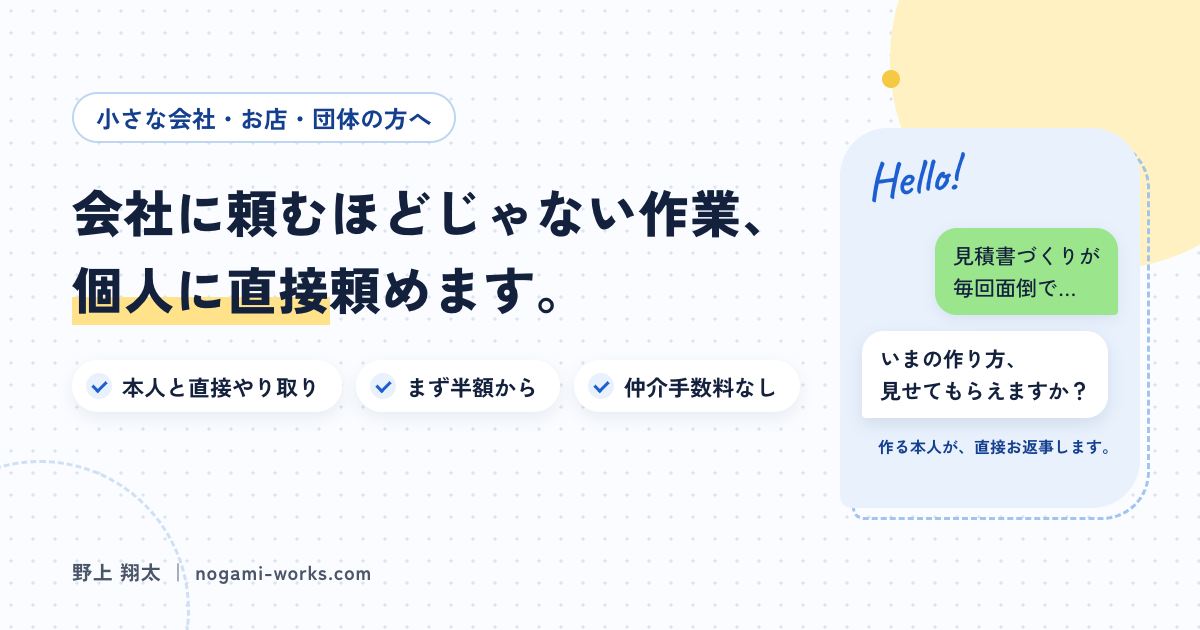
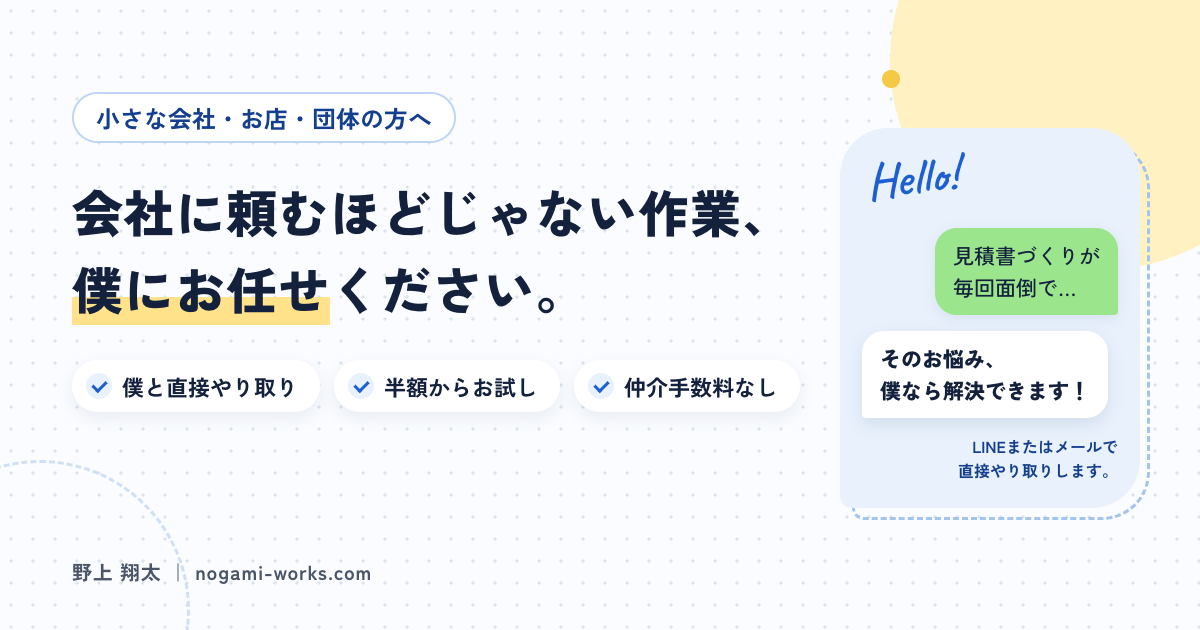
LPの文言を一人称「僕」にそろえ、お悩みをイラスト付きのつぶやきにする
- キャッチを「僕にお任せください」に。本人・作る本人の表現を「僕」に統一
- 半額が値引きに読めないよう「制作費の半額」と書く。見積書の事例は約5分→約30秒
- お悩みの4項目を、悩んでいる人のイラストとつぶやきの吹き出しにする
- 最初の画面の返信を「そのお悩み、僕なら解決できます！」に。OGP画像も合わせる
- 写真のひとことの文言、土日祝日の表記、黄色い光の速さを調整
- Safari で読点のあとに折り返さず吹き出しがはみ出す箇所を直す

diff --git a/index.html b/index.html
@@ -3,17 +3,17 @@
 <head>
 <meta charset="utf-8">
 <meta name="viewport" content="width=device-width, initial-scale=1">
-<title>会社に頼むほどじゃない作業、個人に直接頼めます｜野上 翔太</title>
-<meta name="description" content="後回しになっている事務作業の自動化やホームページづくりを、ひとりで引き受けます。作る本人とLINEで直接やり取り。費用はまず半額、納得できたら残りの半額。仲介手数料なし。">
+<title>会社に頼むほどじゃない作業、僕にお任せください｜野上 翔太</title>
+<meta name="description" content="後回しになっている事務作業の自動化やホームページづくりを、ひとりで引き受けます。僕とLINEで直接やり取り。お支払いはまず制作費の半額、納得できたら残りの半額。仲介手数料なし。">
 <link rel="canonical" href="https://nogami-works.com/">
 <meta property="og:type" content="website">
 <meta property="og:url" content="https://nogami-works.com/">
-<meta property="og:title" content="会社に頼むほどじゃない作業、個人に直接頼めます">
-<meta property="og:description" content="事務作業の自動化やホームページづくりを、ひとりで引き受けます。作る本人とLINEで直接。まず半額、納得できたら残りの半額。">
+<meta property="og:title" content="会社に頼むほどじゃない作業、僕にお任せください">
+<meta property="og:description" content="事務作業の自動化やホームページづくりを、ひとりで引き受けます。僕とLINEで直接やり取り。お支払いはまず制作費の半額、納得できたら残りの半額。">
 <meta property="og:image" content="https://nogami-works.com/assets/brand/ogp-home.png">
 <meta property="og:image:width" content="1200">
 <meta property="og:image:height" content="630">
-<meta property="og:image:alt" content="会社に頼むほどじゃない作業、個人に直接頼めます。野上 翔太">
+<meta property="og:image:alt" content="会社に頼むほどじゃない作業、僕にお任せください。野上 翔太">
 <meta name="twitter:card" content="summary_large_image">
 <link rel="icon" type="image/svg+xml" href="./assets/brand/favicon.svg">
 <link rel="icon" type="image/png" sizes="32x32" href="./assets/brand/icons/icon-32.png">
@@ -45,7 +45,7 @@
       "name": "返事はどのくらいでもらえますか？",
       "acceptedAnswer": {
         "@type": "Answer",
-        "text": "平日は12時間以内を目安にお返事します。土日や休みの日は、お時間をいただくことがあります。"
+        "text": "平日は12時間以内を目安にお返事します。土日祝日は、お時間をいただくことがあります。"
       }
     },
     {
@@ -132,11 +132,11 @@ a:focus-visible, summary:focus-visible { outline: 3px solid var(--ac); outline-o
 .hand { font-family: 'Caveat', cursive; font-weight: 600; line-height: 1.1; }
 .mark { background: linear-gradient(transparent 62%, var(--yel2) 62%); }
 .pc { display: none; }
-.nw { white-space: nowrap; }
+.nw { display: inline-block; white-space: nowrap; }
 /* Safari は keep-all の文の最小幅を大きく見積もり、箱が画面からはみ出すことがある。
    1 列のグリッドと、横並びの中の文章の箱は、入れ物の幅より広がらないようにする */
 .worries, .svc, .cases, .fold-two, .faq-cols, .faq-cols .col, .fit, .strengths { grid-template-columns: minmax(0, 1fr); }
-.worries li > span:last-child, .stg-h h3, .pay > li > span, .prices li > span, .fold > summary > span:first-child, .qa > summary .q, .prof-who > div { min-width: 0; }
+.worry-say, .stg-h h3, .pay > li > span, .prices li > span, .fold > summary > span:first-child, .qa > summary .q, .prof-who > div { min-width: 0; }
 
 /* ---------- 全体の重なり ---------- */
 .page { position: relative; z-index: 0; overflow: hidden; }
@@ -148,8 +148,8 @@ a:focus-visible, summary:focus-visible { outline: 3px solid var(--ac); outline-o
 .in { max-width: 560px; margin: 0 auto; display: flex; flex-direction: column; gap: 24px; }
 .trail { position: absolute; left: 0; top: 0; z-index: 0; pointer-events: none; overflow: visible; }
 .trail .line { stroke: var(--trail); stroke-width: 2; stroke-dasharray: 6 7; fill: none; }
-.trail .run { stroke: var(--yel); stroke-linecap: round; stroke-dasharray: 0.1 1679.9; fill: none; animation: run 4s linear infinite; }
-@keyframes run { from { stroke-dashoffset: 1680; } to { stroke-dashoffset: 0; } }
+.trail .run { stroke: var(--yel); stroke-linecap: round; stroke-dasharray: 0.1 1199.9; fill: none; animation: run 4s linear infinite; }
+@keyframes run { from { stroke-dashoffset: 1200; } to { stroke-dashoffset: 0; } }
 
 /* ---------- 共通の部品 ---------- */
 .lab { display: flex; flex-direction: column; gap: 2px; }
@@ -210,9 +210,13 @@ details[open] > summary .pm::after { transform: rotate(0deg); }
 .chat { position: absolute; right: 16px; top: 60px; width: 216px; display: flex; flex-direction: column; gap: 10px; }
 .bubble { max-width: 100%; padding: 9px 14px; font-size: 14px; line-height: 1.6; transition: opacity .3s; }
 .bubble.me { align-self: flex-end; background: var(--bub); border-radius: 18px 18px 4px 18px; font-weight: 500; box-shadow: 0 4px 14px rgba(20, 40, 90, 0.08); }
+#fb2 { font-weight: 900; }
 .bubble.you { align-self: flex-start; background: #fff; border-radius: 18px 18px 18px 4px; font-weight: 700; box-shadow: 0 6px 16px rgba(20, 40, 90, 0.10); }
-.chat .cap { align-self: flex-end; font-size: 11px; font-weight: 700; color: var(--aci); transition: opacity .4s; }
+.chat .cap { align-self: flex-end; text-align: right; font-size: 11px; font-weight: 700; color: var(--aci); transition: opacity .4s; }
 .ghost { opacity: 0; }
+.you-row { align-self: flex-start; display: flex; align-items: flex-end; gap: 6px; max-width: 100%; transition: opacity .3s; }
+.you-row .bubble { min-width: 0; }
+.avatar { width: 30px; height: 30px; border-radius: 50%; object-fit: cover; flex-shrink: 0; border: 2px solid #fff; box-shadow: 0 2px 6px rgba(20, 40, 90, 0.15); }
 .face { position: absolute; left: 20px; bottom: 22px; display: flex; flex-direction: column; align-items: center; gap: 8px; }
 .photo { position: relative; width: 130px; height: 130px; }
 .photo::before { content: ''; position: absolute; left: 7px; top: 7px; width: 100%; height: 100%; border-radius: 50%; border: 3px solid var(--ac); }
@@ -235,10 +239,14 @@ details[open] > summary .pm::after { transform: rotate(0deg); }
 @keyframes twinkle { 0%, 100% { opacity: 1; } 50% { opacity: .45; } }
 
 /* ---------- 2. お悩み ---------- */
-.worries { display: grid; gap: 12px; }
-.worries li { background: #fff; box-shadow: var(--card); padding: 14px 16px; display: flex; align-items: center; gap: 14px; font-size: 15px; line-height: 1.6; font-weight: 700; border-radius: 20px 20px 20px 6px; margin-right: 18px; }
-.worries li:nth-child(even) { border-radius: 20px 20px 6px 20px; margin: 0 0 0 18px; }
-.worries .ib { width: 44px; height: 44px; border-radius: 22px; background: var(--tint); color: var(--ac); display: flex; align-items: center; justify-content: center; flex-shrink: 0; }
+.worries { display: grid; gap: 16px; grid-auto-rows: 1fr; }
+/* 悩んでいる人のつぶやき。吹き出しのとがった角を人のほうへ向ける（SP は左右交互） */
+.worries li { display: flex; align-items: flex-end; gap: 6px; }
+.worries li > * { align-self: flex-end; }
+.worries li:nth-child(even) { flex-direction: row-reverse; }
+.worry-face { height: 64px; width: 72px; object-fit: contain; object-position: bottom; flex-shrink: 0; }
+.worry-say { flex: 1; min-width: 0; align-self: stretch !important; display: flex; align-items: center; margin-bottom: 18px; background: #fff; box-shadow: var(--card); padding: 12px 16px; border-radius: 20px 20px 20px 6px; font-size: 15px; line-height: 1.6; font-weight: 700; }
+.worries li:nth-child(even) .worry-say { border-radius: 20px 20px 6px 20px; }
 .lead-c { font-size: 17px; line-height: 1.8; font-weight: 900; text-align: center; }
 .lead-c .w { display: inline-block; }
 
@@ -460,10 +468,10 @@ details[open] > summary .pm::after { transform: rotate(0deg); }
   .sticker { right: 20px; bottom: 30px; width: 150px; padding: 12px 10px; } .sticker span { font-size: 12px; } .sticker b { font-size: 28px; }
   .points { grid-column: 1 / -1; padding: 16px 8px; }
   .points li { flex-direction: row; justify-content: center; gap: 12px; font-size: 15px; } .points .ib { width: 40px; height: 40px; border-radius: 20px; } .points .ico { width: 22px; height: 22px; }
-  .worries { grid-template-columns: repeat(2, minmax(0, 1fr)); gap: 20px 28px; }
-  .worries li, .worries li:nth-child(even) { margin: 0; padding: 20px 22px; gap: 16px; font-size: 17px; border-radius: 22px 22px 22px 6px; }
-  .worries li:nth-child(even) { border-radius: 22px 22px 6px 22px; }
-  .worries .ib { width: 52px; height: 52px; border-radius: 26px; } .worries .ico { width: 26px; height: 26px; }
+  .worries { grid-template-columns: repeat(2, minmax(0, 1fr)); gap: 24px 36px; }
+  .worries li:nth-child(even) { flex-direction: row; }
+  .worry-face { height: 88px; width: 100px; }
+  .worry-say, .worries li:nth-child(even) .worry-say { margin-bottom: 24px; padding: 16px 22px; font-size: 17px; border-radius: 22px 22px 22px 6px; }
   .lead-c { font-size: 20px; }
   .svc { grid-template-columns: repeat(3, minmax(0, 1fr)); gap: 28px; }
   .svc .top { height: 128px; } .svc .no { left: 20px; top: 12px; font-size: 36px; } .svc .ib { width: 76px; height: 76px; border-radius: 38px; } .svc .ib .ico { width: 36px; height: 36px; }
@@ -545,7 +553,7 @@ details[open] > summary .pm::after { transform: rotate(0deg); }
   <div class="fv-main">
     <div class="fv-copy">
       <p class="eyebrow rv">小さな<wbr>会社・<wbr>お店・団体の<wbr>方へ</p>
-      <h1 class="rv" style="--d:.1s"><span class="nw">会社に頼むほどじゃない作業、</span><br><span class="mark">個人に<wbr>直接</span>頼めます。</h1>
+      <h1 class="rv" style="--d:.1s"><span class="nw">会社に頼むほどじゃない作業、</span><br><span class="mark">僕に<wbr>お任せ</span>ください。</h1>
       <p class="sub rv" style="--d:.2s">後回しに<wbr>なっている<wbr>事務作業の<wbr>自動化や<wbr>ホームページづくりを、<br class="pc">ひとりで<wbr>引き受けます。</p>
       <div class="fv-cta rv" style="--d:.35s">
         <div><a class="btn-line" href="https://lin.ee/SVRxHPY">LINEで<wbr>直接相談する<wbr>（無料）</a><a class="btn-mail" href="mailto:shota@nogami-works.com">メールで<wbr>相談する</a></div>
@@ -558,18 +566,18 @@ details[open] > summary .pm::after { transform: rotate(0deg); }
       <svg class="plane float" aria-hidden="true" viewBox="0 0 96 62" fill="none" stroke="#1D5FD0" stroke-width="2" stroke-linecap="round" stroke-linejoin="round"><path d="M4 56 Q 22 20 52 30" stroke-dasharray="1 7"/><path d="M58 28 92 10 76 44 70 32z" fill="#fff"/><path d="M70 32 92 10"/></svg>
       <div class="chat">
         <p class="bubble me" id="fb1"><span class="sr">お客さま：</span><span data-typed>見積書づくりが毎回面倒で…</span></p>
-        <p class="bubble you" id="fb2"><span class="sr">野上：</span><span data-typed>いまの作り方、見せてもらえますか？</span></p>
-        <p class="cap" id="fb3">作る<wbr>本人が、<wbr>直接お返事します。</p>
+        <p class="bubble you" id="fb2"><span class="sr">野上：</span><span data-typed>そのお悩み、&#8203;僕なら解決できます！</span></p>
+        <p class="cap" id="fb3">LINEまたは<wbr>メールで<br class="sp">直接やり取りします。</p>
       </div>
       <div class="face">
         <div class="photo"><div class="ph"><img src="./assets/home/face.webp" alt="野上 翔太のプロフィール写真" width="400" height="400" fetchpriority="high"></div></div>
-        <div class="name">私が<wbr>野上 翔太です</div>
+        <div class="name">僕が<wbr>野上 翔太です</div>
       </div>
-      <div class="sticker float2"><span>見積書づくり</span><span>約3分 →</span><b>約10秒</b></div>
+      <div class="sticker float2"><span>見積書づくり</span><span>約5分 →</span><b>約30秒</b></div>
     </div>
     <ul class="points card rv" style="--d:.45s">
-      <li><span class="ib"><svg class="ico"><use href="#i-chat"/></svg></span><span><span class="w">本人と<wbr>直接</span><span class="w">やり取り</span></span></li>
-      <li><span class="ib"><svg class="ico"><use href="#i-half"/></svg></span><span><span class="w">まず<wbr>半額</span><span class="w">から</span></span></li>
+      <li><span class="ib"><svg class="ico"><use href="#i-chat"/></svg></span><span><span class="w">僕と<wbr>直接</span><span class="w">やり取り</span></span></li>
+      <li><span class="ib"><svg class="ico"><use href="#i-half"/></svg></span><span><span class="w">半額から</span><span class="w">お試し</span></span></li>
       <li><span class="ib"><svg class="ico"><use href="#i-link"/></svg></span><span><span class="w">仲介手数料</span><span class="w">なし</span></span></li>
     </ul>
   </div>
@@ -580,12 +588,12 @@ details[open] > summary .pm::after { transform: rotate(0deg); }
   <div class="in">
     <div class="lab"><span class="hand" aria-hidden="true">Hmm...</span><h2>こんな<wbr>こと、<wbr>ありませんか？</h2></div>
     <ul class="worries" data-reveal="side">
-      <li><span class="ib"><svg class="ico"><use href="#i-doc"/></svg></span><span>見積書や<wbr>請求書を、<wbr>毎回いちから<wbr>手で<wbr>作っている</span></li>
-      <li><span class="ib"><svg class="ico"><use href="#i-cal"/></svg></span><span>ホームページの<span class="nw">「お知らせ」が、</span><span class="nw">何年も前のまま</span></span></li>
-      <li><span class="ib"><svg class="ico"><use href="#i-bld"/></svg></span><span>会社に<wbr>頼むと<wbr>高そうで、<br class="pc">見積もりを<wbr>取るのも<wbr>気が<wbr>引ける</span></li>
-      <li><span class="ib"><svg class="ico"><use href="#i-q"/></svg></span><span>頼んで<wbr>「思っていたのと<wbr>違う」と<wbr>なったら、<br class="pc"><span class="nw">お金がもったいない</span></span></li>
+      <li><img class="worry-face" src="./assets/home/worry-paperwork.webp" alt="" width="196" height="200" loading="lazy" decoding="async"><p class="worry-say">見積書も<wbr>請求書も、<wbr>毎回いちから<wbr>手作業…</p></li>
+      <li><img class="worry-face" src="./assets/home/worry-website.webp" alt="" width="226" height="200" loading="lazy" decoding="async"><p class="worry-say">ホームページの<wbr>「お知らせ」、<wbr>何年も<wbr>前の<wbr>ままだ…</p></li>
+      <li><img class="worry-face" src="./assets/home/worry-cost.webp" alt="" width="196" height="200" loading="lazy" decoding="async"><p class="worry-say">会社に<wbr>頼むと<wbr>高そう。<wbr>見積もりを<wbr>取るのも<wbr>気が<wbr>引ける…</p></li>
+      <li><img class="worry-face" src="./assets/home/worry-mismatch.webp" alt="" width="226" height="200" loading="lazy" decoding="async"><p class="worry-say">頼んで<wbr>みて<wbr>「思ってたのと<wbr>違う」だと、<wbr>お金が<wbr>もったいない…</p></li>
     </ul>
-    <p class="lead-c"><span class="w">ひとつでも<wbr>当てはまったら、</span><span class="w"><span class="mark">作る<wbr>本人が<wbr>直接</span>うかが<wbr>います。</span></p>
+    <p class="lead-c"><span class="w">ひとつでも<wbr>当てはまったら、</span><span class="w"><span class="mark">作り手である<wbr>僕が<wbr>直接</span>うかが<wbr>います。</span></p>
   </div>
 </section>
 
@@ -607,24 +615,24 @@ details[open] > summary .pm::after { transform: rotate(0deg); }
 <!-- ========== 4. 進め方（動く図） ========== -->
 <section class="sec tint" id="flow" data-trail>
   <div class="in">
-    <div class="lab"><span class="hand" aria-hidden="true">Flow</span><h2>頼むと、<wbr>こう<wbr>進みます</h2><small>※やり取りの<wbr>イメージです</small></div>
+    <div class="lab"><span class="hand" aria-hidden="true">Flow</span><h2>僕なら<wbr>こう<wbr>進めます</h2><small>※やり取りの<wbr>イメージです</small></div>
     <div class="flow-grid" id="flowfig">
       <ol class="stages">
         <li class="stg card">
           <div class="stg-h"><span class="n" aria-hidden="true">1</span><h3>LINEで<wbr>一言、<wbr>相談する</h3></div>
           <div class="talk">
             <p class="bubble me"><span class="sr">お客さま：</span><span data-typed data-at="0">見積書づくりが毎回面倒で…</span></p>
-            <p class="bubble you"><span class="sr">野上：</span><span data-typed data-at="1">いまの作り方、見せてもらえますか？</span></p>
+            <div class="you-row"><img class="avatar" src="./assets/home/face.webp" alt="" loading="lazy" width="400" height="400"><p class="bubble you"><span class="sr">野上：</span><span data-typed data-at="1">いまの作り方、&#8203;見せてもらえますか？</span></p></div>
           </div>
           <ol class="fcs"><li class="fc done" data-s="0">相談</li><li class="fc done" data-s="1">お返事</li><li class="fc done" data-s="2">お話を<wbr>聞く</li></ol>
         </li>
         <li class="stg card">
-          <div class="stg-h"><span class="n" aria-hidden="true">2</span><h3>見ながら、<wbr>一緒に<wbr>作る</h3><span class="badge on" data-from="3">まず<wbr>半額</span></div>
+          <div class="stg-h"><span class="n" aria-hidden="true">2</span><h3>見ながら、<span class="nw">一緒に作る</span></h3><span class="badge on" data-from="3">制作費の<wbr>半額</span></div>
           <ol class="fcs"><li class="fc done" data-s="3">ご提案</li><li class="fc done" data-s="4,6">お試し版</li><li class="fc done" data-s="5">手直し</li><li class="fc done" data-s="7">最終確認</li></ol>
           <p class="back" id="flowback"><svg class="ico" aria-hidden="true" viewBox="0 0 16 16"><use href="#i-back"/></svg>手直しの<wbr>あと、<wbr>もう<wbr>一度<wbr>お見せします</p>
         </li>
         <li class="stg card">
-          <div class="stg-h"><span class="n" aria-hidden="true">3</span><h3>使ってみて、<wbr>納得してから</h3><span class="badge on" data-from="10">残り半額</span></div>
+          <div class="stg-h"><span class="n" aria-hidden="true">3</span><h3>使ってみて、<wbr>納得してから</h3><span class="badge on" data-from="10">残りの<wbr>半額</span></div>
           <ol class="fcs"><li class="fc done" data-s="8">お渡し</li><li class="fc done" data-s="9">14日<wbr>使う</li><li class="fc done" data-s="10">残りの<wbr>半額</li></ol>
         </li>
       </ol>
@@ -632,13 +640,13 @@ details[open] > summary .pm::after { transform: rotate(0deg); }
         <div class="compare card">
           <div class="cmp-row"><div class="cmp-h">よく<wbr>ある<wbr>進み方の<wbr>例</div><div class="cmp-h">この<wbr>ページの<wbr>進み方</div></div>
           <div class="cmp-row"><div class="cmp-l">問い合わせフォームに<wbr>入力する</div><div class="cmp-r on" data-from="0">LINEで<wbr>一言送る</div></div>
-          <div class="cmp-row"><div class="cmp-l">担当者からの<wbr>返信を<wbr>待つ</div><div class="cmp-r on" data-from="1">作る<wbr>本人が<wbr>直接お返事</div></div>
-          <div class="cmp-row"><div class="cmp-l">打ち合わせの<wbr>日程を<wbr>調整する</div><div class="cmp-r on" data-from="2">画面を<wbr>見ながら、<wbr>その<wbr>場で<wbr>相談</div></div>
+          <div class="cmp-row"><div class="cmp-l">担当者からの<wbr>返信を<wbr>待つ</div><div class="cmp-r on" data-from="1">僕が<wbr>直接お返事</div></div>
+          <div class="cmp-row"><div class="cmp-l">打ち合わせの<wbr>日程を<wbr>調整する</div><div class="cmp-r on" data-from="2">画面を<wbr>見ながら、<span class="nw">その場で相談</span></div></div>
           <div class="cmp-row"><div class="cmp-l">見積書を<wbr>待つ</div><div class="cmp-r on" data-from="3">費用と<wbr>期間を、<br>分かりやすい<wbr>言葉で</div></div>
-          <div class="cmp-row"><div class="cmp-l">契約して、<wbr>決めた<wbr>金額を<wbr>支払う</div><div class="cmp-r on" data-from="4">まず<wbr>半額で<wbr>スタート</div></div>
+          <div class="cmp-row"><div class="cmp-l">契約して、<wbr>決めた<wbr>金額を<wbr>支払う</div><div class="cmp-r on" data-from="4">制作費の<wbr>半額で<wbr>スタート</div></div>
           <div class="cmp-row"><div class="cmp-l">完成してから<wbr>確認する</div><div class="cmp-r on" data-from="9">見ながら<wbr>直し、<br>納得してから<span class="nw">残り半額</span></div></div>
         </div>
-        <ul class="chips"><li>作る<wbr>本人と<wbr>直接やり取りできる</li><li>平日は<wbr>12時間以内を<wbr>目安に<wbr>お返事</li><li>作った<wbr>あとも、<wbr>同じ<wbr>相手に<wbr>相談できる</li></ul>
+        <ul class="chips"><li>僕と<wbr>直接やり取りできる</li><li>平日は<wbr>12時間以内を<wbr>目安に<wbr>お返事</li><li>作った<wbr>あとも、<wbr>僕が<wbr>サポート</li></ul>
         <a class="btn-line mid-cta" href="https://lin.ee/SVRxHPY">LINEで<wbr>直接相談する<wbr>（無料）</a>
       </div>
     </div>
@@ -652,7 +660,7 @@ details[open] > summary .pm::after { transform: rotate(0deg); }
     <ul class="cases" data-reveal>
       <li class="card">
         <span class="tag">見積書づくり<wbr>（1件あたり）</span>
-        <div class="ba"><span class="from">約3分</span><svg class="ico" aria-hidden="true" viewBox="0 0 24 16"><use href="#i-arrow"/></svg><span class="sr">から</span><span class="to">約10秒</span></div>
+        <div class="ba"><span class="from">約5分</span><svg class="ico" aria-hidden="true" viewBox="0 0 24 16"><use href="#i-arrow"/></svg><span class="sr">から</span><span class="to">約30秒</span></div>
         <div class="was"><b>今まで</b>会計ソフトを<wbr>開いて、<wbr>手で<wbr>入力</div>
         <div class="now"><b>これから</b>フォームに<wbr>入力するだけで<wbr>自動作成</div>
       </li>
@@ -677,11 +685,11 @@ details[open] > summary .pm::after { transform: rotate(0deg); }
 <section class="sec tint" id="price" data-trail>
   <div class="dc sun" aria-hidden="true"></div>
   <div class="in">
-    <div class="lab"><span class="hand" aria-hidden="true">Price</span><h2>お支払いは、<wbr>まず<wbr>半額だけ。<br class="sp">残りは、<span class="mark">納得できてから</span>。</h2></div>
+    <div class="lab"><span class="hand" aria-hidden="true">Price</span><h2>お支払いは、<span class="nw">まず制作費の半額だけ。</span><br class="sp">残りは、<span class="mark">納得できてから</span>。</h2></div>
     <ol class="pay" data-reveal>
       <li class="card"><span>ご相談・<wbr>お見積り</span><b>0円</b></li>
       <li class="link" aria-hidden="true"></li>
-      <li class="card hot"><span>制作を<wbr>始める<wbr>とき</span><b>まず<wbr>半額</b></li>
+      <li class="card hot"><span>制作を<wbr>始める<wbr>とき</span><b>制作費の<wbr>半額</b></li>
       <li class="link" aria-hidden="true"></li>
       <li class="card"><span>お渡しして、<wbr>使ってみる</span><b>14日間</b></li>
       <li class="link" aria-hidden="true"></li>
@@ -729,7 +737,7 @@ details[open] > summary .pm::after { transform: rotate(0deg); }
         <div class="fold-body">
           <p>知り合いに<wbr>詳しい<wbr>人が<wbr>ひとりいる。<br>そんな<wbr>距離感で<wbr>お付き合いします。</p>
           <ol class="strengths">
-            <li><h3><span class="hand" aria-hidden="true">1</span>作る<wbr>本人と、<wbr>直接話せます</h3><p>ご相談を<wbr>受けるのも<wbr>作るのも<wbr>同じ<wbr>ひとりなので、<wbr>お話しした<wbr>内容が<wbr>そのまま<wbr>形に<wbr>なります。</p></li>
+            <li><h3><span class="hand" aria-hidden="true">1</span>僕と、<wbr>直接話せます</h3><p>ご相談を<wbr>受けるのも<wbr>作るのも<wbr>僕ひとりなので、<wbr>お話しした<wbr>内容が<wbr>そのまま<wbr>形に<wbr>なります。</p></li>
             <li><h3><span class="hand" aria-hidden="true">2</span>画面を<wbr>見ながら<wbr>相談できます</h3><p>ビデオ通話で<wbr>画面を<wbr>共有しながら、<wbr>「ここは<wbr>こうしたい」を<wbr>一緒に<wbr>確かめていきます。</p></li>
             <li><h3><span class="hand" aria-hidden="true">3</span>専門用語を<wbr>使わずに<wbr>話します</h3><p>分からない<wbr>言葉が<wbr>出たら、<wbr>遠慮なく<wbr>止めてください。</p></li>
           </ol>
@@ -744,7 +752,7 @@ details[open] > summary .pm::after { transform: rotate(0deg); }
           <details class="qa"><summary><span class="hand" aria-hidden="true">Q</span><span class="q">相談したら、<wbr>必ず<wbr>依頼しないと<wbr>いけませんか？</span><span class="pm" aria-hidden="true"></span></summary><p>いいえ。<br>お話を<wbr>うかがった<wbr>結果、<span class="nw">「今のままで十分です」</span><span class="nw">「市販のサービスで足ります」</span><span class="nw">とお伝えすることもあります。</span></p></details>
         </div>
         <div class="grp"><span class="tag">やり取り・<wbr>作った<wbr>あと</span>
-          <details class="qa"><summary><span class="hand" aria-hidden="true">Q</span><span class="q">返事は<wbr>どの<wbr>くらいでもらえますか？</span><span class="pm" aria-hidden="true"></span></summary><p>平日は<wbr>12時間以内を<wbr>目安に<wbr>お返事します。<br>土日や<span class="nw">休みの日は、</span>お時間を<wbr>いただく<wbr>ことがあります。</p></details>
+          <details class="qa"><summary><span class="hand" aria-hidden="true">Q</span><span class="q">返事は<wbr>どの<wbr>くらいでもらえますか？</span><span class="pm" aria-hidden="true"></span></summary><p>平日は<wbr>12時間以内を<wbr>目安に<wbr>お返事します。<br>土日祝日は、<wbr>お時間を<wbr>いただく<wbr>ことがあります。</p></details>
           <details class="qa"><summary><span class="hand" aria-hidden="true">Q</span><span class="q">作って<wbr>もらった<wbr>あと、<wbr>使い方が<wbr>分からなくなったら？</span><span class="pm" aria-hidden="true"></span></summary><p>お渡しの<wbr>ときに<wbr>使い方を<wbr>ご案内し、<wbr>その後の<wbr>ご質問も<wbr>LINEで<wbr>受け付けています。<br>手直しや<wbr>機能の<wbr>追加は、<wbr>内容を<wbr>うかがってから<wbr>ご相談の<wbr>うえで<wbr>進めます。</p></details>
         </div></div>
         <div class="col"><div class="grp"><span class="tag">相談・進め方</span>
@@ -771,17 +779,17 @@ details[open] > summary .pm::after { transform: rotate(0deg); }
     <div class="prof-txt">
       <p class="msg">はじめまして、<span class="nw">野上 翔太</span>です。<br>2021年から<wbr>ウェブの<wbr>開発を<wbr>しています。</p>
       <p class="msg">いまの<wbr>仕事では、<wbr>スプレッドシートや<wbr>会計ソフトと<wbr>社内の<wbr>仕組みを<wbr>つなぐ<wbr>ことも<wbr>担当しています。<br>そのなかで、<wbr>ちょっとした<wbr>仕組みが<wbr>あれば<wbr>楽に<wbr>なる<wbr>作業が<wbr>身近に<wbr>たくさん<wbr>あり、<wbr>それを<wbr>誰に<wbr>頼めばいいか<wbr>分から<wbr>ず<wbr>困っている<wbr>人が<wbr>多いと<wbr>感じました。</p>
-      <p class="msg">毎日<wbr>3<wbr>分かかっていた<wbr>作業が<wbr>10秒に<wbr>なるだけでも、<wbr>仕事は<wbr>ずいぶん<wbr>軽くなります。<br>会社に<wbr>頼むほどではない<wbr>小さな<wbr>作業ひとつから、<wbr>直接<span class="nw">お引き受け</span>していますので<span class="nw">ご相談ください。</span></p>
-      <p class="msg">仕事の<wbr>ほかでは、<wbr>フットサルを<wbr>したり、<wbr>最近は<wbr>ゴルフを<wbr>再開したりしています。<br>いろいろな<wbr>場所へ<wbr>出かけるのも<wbr>好きで、<wbr>一眼レフの<wbr>カメラを<wbr>買ってからは、<wbr>どこへ<wbr>行くにも<wbr>持ち歩いて<wbr>写真を<wbr>撮っています。<br>プロフィール写真は、<wbr>新婚旅行で<wbr>行った<wbr>八重山諸島での<wbr>一枚です。</p>
+      <p class="msg">毎日<wbr>5<wbr>分かかっていた<wbr>作業が<wbr>30秒に<wbr>なるだけでも、<wbr>仕事は<wbr>ずいぶん<wbr>軽くなります。<br>会社に<wbr>頼むほどではない<wbr>小さな<wbr>作業ひとつから、<wbr>直接<span class="nw">お引き受けしていますので</span><span class="nw">ご相談ください。</span></p>
+      <p class="msg">仕事の<wbr>ほかでは、<wbr>フットサルを<wbr>したり、<wbr>最近は<wbr>ゴルフを<wbr>再開したりしています。<br>いろいろな<wbr>場所へ<wbr>出かけるのも<wbr>好きで、<wbr>一眼レフの<wbr>カメラを<wbr>買ってからは、<wbr>どこへ<wbr>行くにも<wbr>持ち歩いて<wbr>写真を<wbr>撮っています。<br>プロフィール写真は、<wbr>新婚旅行で<wbr>訪れた<wbr>八重山諸島での<wbr>一枚です。</p>
       <div class="snap-wrap">
       <ul class="snaps" aria-label="撮った写真" data-reveal="drop">
         <li><figure><button type="button" class="snap-btn" aria-expanded="false" aria-controls="snap-msg-1" aria-label="カメラで自撮りのひとことを見る"><img src="./assets/home/snap-selfie.webp" alt="鏡に向かってカメラを構える自撮り" width="480" height="480" loading="lazy" decoding="async"></button><figcaption>カメラで<wbr>自撮り</figcaption></figure></li>
         <li><figure><button type="button" class="snap-btn" aria-expanded="false" aria-controls="snap-msg-2" aria-label="鴻巣のブルーインパルスのひとことを見る"><img src="./assets/home/snap-blue-impulse.webp" alt="白い煙を引いて編隊飛行するブルーインパルス" width="480" height="480" loading="lazy" decoding="async"></button><figcaption>鴻巣の<wbr>ブルーインパルス</figcaption></figure></li>
         <li><figure><button type="button" class="snap-btn" aria-expanded="false" aria-controls="snap-msg-3" aria-label="千畳敷カールのひとことを見る"><img src="./assets/home/snap-senjojiki.webp" alt="千畳敷カールの看板と、そびえる岩山" width="480" height="480" loading="lazy" decoding="async"></button><figcaption>千畳敷カール</figcaption></figure></li>
       </ul>
-        <p class="snap-msg" id="snap-msg-1">妻の<wbr>出発準備中に<wbr>撮った、<wbr>ホテルでの<wbr>一コマ。<br>時間つぶしに<wbr>カメラを<wbr>触っていて、<wbr>妻を<wbr>撮ると<wbr>怒られるので<wbr>自撮り撮影を<wbr>決行。<br>今は、<wbr>覗いて<wbr>撮るのが<wbr>かっこいいと<wbr>思ってます笑</p>
-        <p class="snap-msg" id="snap-msg-2">毎年<wbr>恒例に<wbr>なっている、<wbr>鴻巣の<wbr>花火大会で<wbr>撮影した<wbr>一コマ。<br>初めての<wbr>ブルーインパルス、<wbr>早すぎ、<wbr>連携されすぎでかっこ良すぎました。<br>来世は<wbr>ブルーインパルスに<wbr>なります。</p>
-        <p class="snap-msg" id="snap-msg-3">初めて<wbr>山に<wbr>圧倒された<wbr>日の<wbr>一コマ。<br>朝2時発、<wbr>9時半に<wbr>目的地に<wbr>到着と<wbr>いう<wbr>過酷な<wbr>試練を<wbr>乗り越えたのちに<wbr>待ち構えていた<wbr>景色。<br>あんなに<wbr>綺麗で<wbr>雄大な<wbr>自然を<wbr>感じられたのは<wbr>初めてでした。<br>ぜひ<wbr>行ってほしい、そしてまた<wbr>行きたい、<wbr>そんな<wbr>場所に<wbr>なりました。</p>
+        <p class="snap-msg" id="snap-msg-1">妻の<wbr>出発準備中に<wbr>撮った、<wbr>ホテルでの<wbr>一枚。<br>時間つぶしに<wbr>カメラを<wbr>触っていて、<wbr>妻を<wbr>撮ると<wbr>怒られるので<wbr>自撮り撮影を<wbr>決行。<br>今は、<wbr>覗いて<wbr>撮るのが<wbr>かっこいいと<wbr>思ってます笑</p>
+        <p class="snap-msg" id="snap-msg-2">毎年<wbr>恒例に<wbr>なっている、<wbr>鴻巣の<wbr>花火大会で<wbr>撮影した<wbr>一枚。<br>初めての<wbr>ブルーインパルス、<wbr>早すぎ、<wbr>連携されすぎでかっこ良すぎました。<br>来世は<wbr>ブルーインパルスに<wbr>なります。</p>
+        <p class="snap-msg" id="snap-msg-3">初めて<wbr>山に<wbr>圧倒された<wbr>日の<wbr>一枚。<br>朝2時発、<wbr>9時半に<wbr>目的地に<wbr>到着と<wbr>いう<wbr>過酷な<wbr>試練ののちに<wbr>待ち構えていた<wbr>絶景。<br>あんなに<wbr>綺麗で<wbr>雄大な<wbr>自然を<wbr>感じたのは<wbr>初めてでした。<br>また<wbr>行きたい、<wbr>友達にも<wbr>おすすめしたい、<wbr>そんな<wbr>場所に<wbr>なりました。<br>皆さんも<wbr>是非！</p>
       </div>
       <details class="fold"><summary><span>略歴を<wbr>見る</span><span class="pm" aria-hidden="true"></span></summary>
         <div class="fold-body"><ul class="b">
@@ -802,7 +810,7 @@ details[open] > summary .pm::after { transform: rotate(0deg); }
       <h2>まずは、<wbr>話す<wbr>ところから。</h2>
       <p class="lead">「こんな<wbr>こと、<wbr>相談していいのかな」と<wbr>思う<wbr>こと<wbr>ほど、<wbr>お聞かせ<wbr>ください。</p>
       <div class="btns"><a class="btn-line" href="https://lin.ee/SVRxHPY">LINEで<wbr>直接相談する<wbr>（無料）</a><a class="btn-mail" href="mailto:shota@nogami-works.com">メールで<wbr>相談する</a></div>
-      <p class="after"><span class="w">友だち追加して<wbr>「相談したい」と<wbr>送るだけ。</span><span class="w">作る<wbr>本人が<wbr>直接お返事します。</span></p>
+      <p class="after"><span class="w">友だち追加して<wbr>「相談したい」と<wbr>送るだけ。</span><span class="w">僕が<wbr>直接お返事します。</span></p>
     </div>
   </div>
   <footer class="foot">

diff --git a/assets/brand/ogp-home.html b/assets/brand/ogp-home.html
@@ -33,8 +33,8 @@
   .chat { position: absolute; left: 22px; right: 22px; top: 100px; display: flex; flex-direction: column; gap: 16px; }
   .bubble { padding: 12px 18px; font-size: 21px; line-height: 1.5; }
   .bubble.me { align-self: flex-end; background: #9BE58C; border-radius: 22px 22px 4px 22px; font-weight: 500; box-shadow: 0 4px 14px rgba(20, 40, 90, 0.08); }
-  .bubble.you { align-self: flex-start; background: #fff; border-radius: 22px 22px 22px 4px; font-weight: 700; box-shadow: 0 6px 16px rgba(20, 40, 90, 0.10); }
-  .cap { align-self: flex-end; font-size: 16px; font-weight: 700; color: var(--aci); }
+  .bubble.you { align-self: flex-start; background: #fff; border-radius: 22px 22px 22px 4px; font-weight: 900; box-shadow: 0 6px 16px rgba(20, 40, 90, 0.10); }
+  .cap { align-self: flex-end; text-align: right; font-size: 16px; line-height: 1.5; font-weight: 700; color: var(--aci); }
 
   .site { position: absolute; left: 72px; bottom: 44px; font-size: 20px; font-weight: 700; color: var(--mute); letter-spacing: 0.04em; }
 </style>
@@ -43,16 +43,16 @@
   <div class="sun"></div><div class="sun-dot"></div><div class="ring"></div>
   <div class="copy">
     <p class="eyebrow">小さな会社・お店・団体の方へ</p>
-    <h1><span class="nw">会社に頼むほどじゃない作業、</span><br><span class="mark">個人に直接</span>頼めます。</h1>
-    <ul class="points"><li><i></i>本人と直接やり取り</li><li><i></i>まず半額から</li><li><i></i>仲介手数料なし</li></ul>
+    <h1><span class="nw">会社に頼むほどじゃない作業、</span><br><span class="mark">僕にお任せ</span>ください。</h1>
+    <ul class="points"><li><i></i>僕と直接やり取り</li><li><i></i>半額からお試し</li><li><i></i>仲介手数料なし</li></ul>
   </div>
   <div class="card">
     <div class="bg2"></div><div class="bg"></div>
     <div class="hello">Hello!</div>
     <div class="chat">
       <p class="bubble me">見積書づくりが<br>毎回面倒で…</p>
-      <p class="bubble you">いまの作り方、<br>見せてもらえますか？</p>
-      <p class="cap">作る本人が、直接お返事します。</p>
+      <p class="bubble you">そのお悩み、<br>僕なら解決できます！</p>
+      <p class="cap">LINEまたはメールで<br>直接やり取りします。</p>
     </div>
   </div>
   <p class="site">野上 翔太 ｜ nogami-works.com</p>
